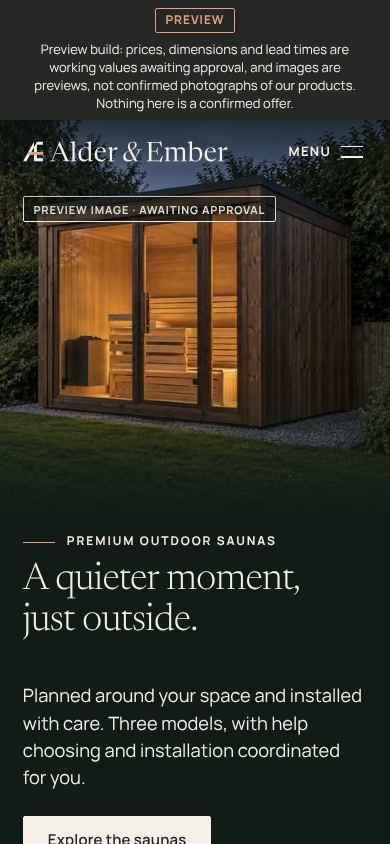
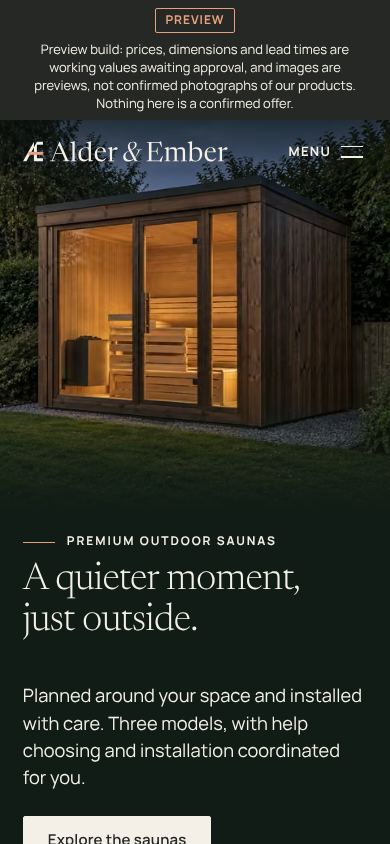
Approve the hero photograph and add the full photography brief
The owner confirmed the homepage hero is a real photograph and asked for
it to be approved. The approval record (who confirmed what, on which
date, and that the photographer, licence terms and the sauna shown are
not yet recorded) travels with the photograph through the image pipeline,
so it becomes an approved 'photo' with no label. It stays atmosphere, not
product evidence, because the model it shows is not recorded.

- manifest and pipeline carry an optional approval record; assets read it
- tests: an approved photograph carries its rights record and is not
  product evidence unless it records the model; a supplied image without
  approval is still labelled
- image credits list approved photographs and any still awaiting approval
- docs/photo-brief.md: every image the site needs (17 for launch), where
  each appears, how the site crops it, what must be in frame, shoot plan,
  delivery, rights and records; launch dependency added for the hero's
  photographer, licence and model
- screenshots refreshed for the home page

Claude-Session: https://claude.ai/code/session_0187iH3izM2tVVqanZumumJf

Changed region(s): [[0.0923, 0.2156, 0.6769, 0.2773]]

diff --git a/src/content/assets.ts b/src/content/assets.ts
@@ -253,7 +253,7 @@ const STOCK: Record<string, Stock> = {
   'installation-process': { photo: 'installation-process', focal: { x: 50, y: 55 }, alt: 'A small red timber cabin on a twin-axle trailer, parked on a lawn.' },
 };
 
-/** Images supplied for review (origin and rights unconfirmed). Never product or project evidence until approved. */
+/** Images supplied by the owner. Labelled previews until an approval record travels with the photograph; atmosphere until the model shown is recorded. */
 const SUPPLIED: Record<string, Stock> = {
   'hero-wide': {
     photo: 'hero',
@@ -289,7 +289,12 @@ function withPhoto(a: Asset): Asset {
     ...(st.mobileFocal ? { mobileFocal: st.mobileFocal } : {}),
     approval: 'working',
   };
-  if (supplied) return { ...common, kind: 'supplied-preview', rights: null };
+  if (supplied) {
+    // once the owner has approved it (the record travels with the photograph), it is their photograph; until then it is a labelled preview.
+    // Approval is not product evidence: that also needs the model it shows, so `evidence` stays 'atmosphere'.
+    if (ph.approval) return { ...common, kind: 'photo', rights: ph.approval.rights, approval: 'approved' };
+    return { ...common, kind: 'supplied-preview', rights: null };
+  }
   if (!ph.credit) throw new Error(`Stock photo "${st.photo}" has no credit; a photograph without a licence is a supplied image`);
   return { ...common, kind: 'stock-preview', credit: ph.credit, rights: `${ph.credit.license}, ${ph.credit.author} (via Wikimedia Commons)` };
 }

diff --git a/src/content/preview-photos.ts b/src/content/preview-photos.ts
@@ -17,6 +17,8 @@ export interface PreviewPhoto {
   avif?: boolean;
   /** width of the small variant used for gallery thumbnails (WebP only) */
   thumbWidth?: number;
+  /** present once the owner has approved the image for use as their own photograph; its rights wording travels with it */
+  approval?: { status: 'approved'; date: string; rights: string };
   /** null for a supplied image whose origin and rights are not yet confirmed */
   credit: { title: string; author: string; license: string; licenseUrl: string | null; sourceUrl: string; adapted: string } | null;
 }
@@ -29,6 +31,7 @@ export const previewPhotos: Record<string, PreviewPhoto> = {
     widths: [640, 960, 1280, 1884],
     avif: true,
     thumbWidth: 320,
+    approval: {"status": "approved", "date": "2026-10-20", "rights": "Supplied by Alder & Ember. Confirmed by the site owner on 20 October 2026 as a real photograph, approved for use as the homepage hero. Photographer, licence terms and which sauna it shows are not yet recorded."},
     credit: null,
   },
   'hero-mobile': {
@@ -38,6 +41,7 @@ export const previewPhotos: Record<string, PreviewPhoto> = {
     widths: [480, 640, 835],
     avif: true,
     thumbWidth: 320,
+    approval: {"status": "approved", "date": "2026-10-20", "rights": "Supplied by Alder & Ember. Confirmed by the site owner on 20 October 2026 as a real photograph, approved for use as the homepage hero. Photographer, licence terms and which sauna it shows are not yet recorded."},
     credit: null,
   },
   'rowan-exterior': {

diff --git a/tests/content.test.ts b/tests/content.test.ts
@@ -119,6 +119,21 @@ describe('asset manifest', () => {
     }
   });
 
+  it('never presents an approved photograph as product evidence unless it records which model it shows', () => {
+    for (const a of assets.filter((x) => x.kind === 'photo' && x.evidence === 'product-evidence')) {
+      expect(a.modelId).toBeDefined();
+    }
+  });
+
+  it('labels a supplied image that has not been approved, and an approved photograph carries its rights record', () => {
+    expect(previewTag({ kind: 'supplied-preview' } as never)).toMatch(/awaiting approval/);
+    const hero = getAsset('hero-wide')!;
+    expect(hero.kind).toBe('photo');
+    expect(hero.approval).toBe('approved');
+    expect(hero.rights).toMatch(/Confirmed by the site owner/);
+    expect(previewTag(hero)).toBeNull();
+  });
+
   it('labels every image that is not an approved photograph', () => {
     for (const a of assets.filter((x) => x.kind !== 'photo' && x.kind !== 'placeholder')) {
       expect(previewTag(a)).toBeTruthy();

diff --git a/scripts/images/build-preview-photos.py b/scripts/images/build-preview-photos.py
@@ -12,9 +12,9 @@ For every entry in scripts/images/preview-photos.manifest.json it
 and finally rewrites src/content/preview-photos.ts with the credit that travels with each photo.
 
 Most are openly licensed stock photographs shown as clearly labelled previews. An entry marked "supplied" is an
-image handed over for review whose origin and rights are not yet confirmed: it carries no credit and is labelled
-"awaiting approval". None is approved Alder & Ember product or project photography, and each must be replaced
-or approved before launch.
+image handed over for review: until it has an "approval" record (who confirmed what, and the rights wording) it
+carries no credit and is labelled "awaiting approval"; with one, it is treated as the owner's approved photograph.
+Everything else must be replaced or approved before launch.
 """
 import argparse, io, json, os, re, sys, time, urllib.request
 from pathlib import Path
@@ -155,7 +155,7 @@ def main():
             full = im if biggest == im.width else im.resize((biggest, round(im.height * biggest / im.width)), Image.LANCZOS)
             w_, h_ = full.size
             size = sum((OUT / f"{key}-{w}.{ext}").stat().st_size for w in emitted for ext in ("webp", "avif"))
-            print(f"{key:24} {w_}x{h_}  widths {emitted}  {size // 1024:5d} KB total  {p.get('license', 'supplied, rights unconfirmed')}", flush=True)
+            print(f"{key:24} {w_}x{h_}  widths {emitted}  {size // 1024:5d} KB total  {p.get('license', 'supplied, approved by owner' if p.get('approval') else 'supplied, rights unconfirmed')}", flush=True)
         else:
             existing = sorted(int(m.group(1)) for f in OUT.glob(f"{key}-*.webp") if (m := re.match(rf"{re.escape(key)}-(\d+)\.webp$", f.name)) and int(m.group(1)) != THUMB_W)
             emitted = existing
@@ -164,6 +164,7 @@ def main():
         entries[key] = {
             "file": f"/images/preview/{key}", "width": w_, "height": h_, "widths": emitted,
             # a supplied image has no licence to credit; it is labelled "awaiting approval" instead
+            "approval": p.get("approval"),
             "credit": None if p.get("supplied") else {
                 "title": p["title"], "author": p["author"], "license": p["license"], "licenseUrl": p["licenseUrl"],
                 "sourceUrl": p["page"], "adapted": p.get("adapted") or adapted_text(g, aspect, p.get("zoom", 1.0)),
@@ -193,6 +194,8 @@ export interface PreviewPhoto {
   avif?: boolean;
   /** width of the small variant used for gallery thumbnails (WebP only) */
   thumbWidth?: number;
+  /** present once the owner has approved the image for use as their own photograph; its rights wording travels with it */
+  approval?: { status: 'approved'; date: string; rights: string };
   /** null for a supplied image whose origin and rights are not yet confirmed */
   credit: { title: string; author: string; license: string; licenseUrl: string | null; sourceUrl: string; adapted: string } | null;
 }
@@ -201,7 +204,8 @@ export const previewPhotos: Record<string, PreviewPhoto> = {
 '''
     body = ""
     for k, v in entries.items():
-        body += f"  '{k}': {{\n    file: '{v['file']}',\n    width: {v['width']},\n    height: {v['height']},\n    widths: {json.dumps(v['widths'])},\n    avif: true,\n    thumbWidth: {THUMB_W},\n    credit: {json.dumps(v['credit'], ensure_ascii=False)},\n  }},\n"
+        appr = f"    approval: {json.dumps(v['approval'], ensure_ascii=False)},\n" if v.get("approval") else ""
+        body += f"  '{k}': {{\n    file: '{v['file']}',\n    width: {v['width']},\n    height: {v['height']},\n    widths: {json.dumps(v['widths'])},\n    avif: true,\n    thumbWidth: {THUMB_W},\n{appr}    credit: {json.dumps(v['credit'], ensure_ascii=False)},\n  }},\n"
     TS.write_text(head + body + "};\n")
 
 

diff --git a/docs/photo-brief.md b/docs/photo-brief.md
@@ -1,0 +1,173 @@
+# Photography brief: every image on the site
+
+For Alder & Ember and the photographer. It lists each photograph the website needs, where each one appears, how the site crops it, and what must be in the frame. It is written from the layouts that are built, so finished files can go straight in.
+
+**Status.** The homepage hero is approved (a real photograph, dark timber cabin with a glazed front, lit at dusk, with a hedge and silver birch behind it). It is the **look benchmark for everything below**. The other 16 slots still show clearly labelled stock photographs, which are not Alder & Ember's saunas and must be replaced before launch. For the hero's own specification, and the optional higher-resolution or vertical version, see [hero-photo-brief.md](hero-photo-brief.md).
+
+## 1. The look, in one paragraph
+
+Quiet, grounded and architectural: a considered timber cabin in a real UK garden, photographed at **dusk or in soft overcast light**, lit warmly from inside, with natural colour and nothing theatrical. Dark, fine-grained timber; a lawn, a clipped hedge, silver birch; a gravel base. Interiors are calm and honest about space and scale. Details are tactile and true to colour. No people's faces, no added steam or smoke, no heavy orange grade, no HDR look.
+
+Palette to keep in mind (the site's own): warm canvas `#f4f0e8`, deep forest `#111c16`, timber `#795b45`, and a very small ember accent `#a54f32`.
+
+## 2. Ground rules for every image
+
+1. **Accuracy comes first.** A photograph labelled as the Rowan, Alder or Ember must show that model, exactly as it is sold, in its standard configuration. Never use one model standing in for another. Note the model and configuration for every file.
+2. **One garden for the three exteriors**, ideally the hero's garden, so the range looks like one place and compares fairly.
+3. **No people's faces.** Where people appear (installation), they are shown from behind or at a distance, with signed releases.
+4. **No added steam, smoke, fire or lens effects.** No heavy colour grade: neutral white balance, true timber colour, a warm glow from the interior only.
+5. **No brands, logos, competitor products, house numbers, number plates or recognisable neighbours** in frame.
+6. **Verticals stay vertical.** Use a tilt-shift lens or shoot a little wide and correct in post. No tilted horizons, no fisheye.
+7. **Do not invent.** Construction details come from the manufacturer. Show the approved heater package only. No measurements, labels or annotations in the frame.
+8. **Shoot with margin.** The site crops the same photograph to 3:2, 4:3, 5:4, 4:5 and square in different places. Keep everything essential inside the **central 88% of the width and 85% of the height**.
+9. **Real projects only** for installation images, with the customer's written permission.
+
+## 3. Shot list at a glance
+
+17 images are needed for launch. File names are the site's asset ids, so each delivery maps straight to its slot.
+
+| # | File name | Image | Appears on | Shoot as | Minimum size |
+|---|---|---|---|---|---|
+| 1 | `rowan-exterior` | The Rowan, exterior | Model explorer, collection, Rowan page (first image) | 3:2 horizontal | 4500 × 3000 |
+| 2 | `alder-exterior` | The Alder, exterior | Same, Alder page, the Alder campaign page | 3:2 horizontal | 4500 × 3000 |
+| 3 | `ember-exterior` | The Ember, exterior | Same, Ember page | 3:2 horizontal | 4500 × 3000 |
+| 4 | `rowan-interior` | The Rowan, interior | Rowan page gallery (second image), interior section | 3:2 horizontal | 4500 × 3000 |
+| 5 | `alder-interior` | The Alder, interior | Alder page gallery and interior section | 3:2 horizontal | 4500 × 3000 |
+| 6 | `ember-interior` | The Ember, interior | Ember page gallery and interior section | 3:2 horizontal | 4500 × 3000 |
+| 7 | `rowan-detail` | The Rowan, heater and controls | Rowan page gallery (third image) | 3:2 horizontal | 3600 × 2400 |
+| 8 | `alder-detail` | The Alder, glazed front from inside | Alder page gallery (third image) | 3:2 horizontal | 3600 × 2400 |
+| 9 | `ember-detail` | The Ember, changing area | Ember page gallery (third image) | 3:2 horizontal | 3600 × 2400 |
+| 10 | `detail-timber` | Exterior cladding close-up | Home: "Considered in every detail" | **Both** 4:5 vertical and 3:2 horizontal | 3000 px long edge |
+| 11 | `detail-interior-finish` | Interior timber and bench edge | Home: same chapter | 3:2 horizontal | 3600 × 2400 |
+| 12 | `detail-construction` | Insulated wall build-up | Home: same chapter | 4:3 horizontal | 3200 × 2400 |
+| 13 | `detail-glazing-heater` | Glazing frame, handle, heater | Home: same chapter, Alder page | 4:3 horizontal | 3200 × 2400 |
+| 14 | `site-access` | A real site and access check | Home: "From your space to first use"; Installation & delivery | 3:2 horizontal | 3600 × 2400 |
+| 15 | `installation-process` | A real installation in progress | Installation & delivery | 3:2 horizontal | 3600 × 2400 |
+| 16 | `closing-warmth` | Closing image: from the warmth, into the garden | Home: closing section | 4:3 horizontal | 3200 × 2400 |
+| 17 | `social-share` | Link-preview image (text-free) | Social and messaging previews | 1.91:1 horizontal | 2400 × 1260 |
+
+**Also useful, not required for launch:** a vertical or higher-resolution hero frame (see the hero brief), and image sets for real installation stories (section 8).
+
+## 4. Image by image
+
+### 4.1 Model exteriors (`rowan-exterior`, `alder-exterior`, `ember-exterior`)
+
+These are the most-seen images on the site: the large stage of the model explorer on the home page (3:2), the collection and model cards, the first image on each model page (4:3), and the Alder campaign page.
+
+- **Same everything for all three.** One garden, one angle, one camera height, one lens, one time of day. Shoot from the **front-left at a three-quarter angle**, so the front (door or glazing) and one side are visible. **Camera height about 1.3 m**, lens **28 to 35 mm equivalent**, camera level. The cabin fills about **55% of the frame width**. Do not enlarge or shrink a model in post: bigger models should look bigger.
+- **Light.** The hero's light: **15 to 40 minutes after sunset**, deep blue sky, interior lit, the lawn falling into shade. Back-up set in soft overcast daylight.
+- **Setting.** Lawn in front, hedge and birch behind, gravel base. Nothing else in frame: no bins, hoses, furniture, vehicles, other buildings.
+- **Door closed, interior lit.** The glazed front or windows glow; the interior timber is visible.
+- **Show what is distinctive.** Rowan: the compact cabin, with room around it to read as a small-garden building. Alder: the glazed front. Ember: the larger cabin, framed so the **changing area** is visible.
+- **Composition.** Cabin centred in the 20% to 80% band of the width, 8% of air all round. Quiet sky or foliage in the top 12%.
+
+### 4.2 Model interiors (`rowan-interior`, `alder-interior`, `ember-interior`)
+
+Shown in the model page gallery and in the page's interior section.
+
+- **Position.** In the doorway corner, **camera at bench-top height (1.0 to 1.2 m)**, lens **16 to 24 mm equivalent**, level, no fisheye.
+- **Show.** Both bench levels with their depth, the heater with its guard and stones, the wall and ceiling timber, the door or glazing, the floor. The viewer should be able to judge how many people sit comfortably.
+- **Scale cues, sparingly.** One folded undyed-linen towel on the upper bench, one plain timber bucket and ladle on the lower. Nothing else.
+- **Light.** The sauna's own lights on, dimmed, plus balanced daylight or dusk light through the glass. No flash glare on glass. No steam: the heater is off or warm, never "smoking".
+- **Accuracy.** The standard bench layout and the approved heater package. If the heater package is not confirmed before the shoot, say so, because it may need re-shooting.
+
+### 4.3 Model details (`rowan-detail`, `alder-detail`, `ember-detail`)
+
+The third image in each model gallery. Each one is specific to its model.
+
+- **The Rowan:** the electric heater and its control panel with the bench edge beside it, from a three-quarter angle. Approved heater package only.
+- **The Alder:** the **glazed front seen from inside**, looking out into the garden at dusk, so the glass frames the lit lawn and the hedge. It shows the model's main feature and the idea of the site: from the garden into the warmth.
+- **The Ember:** the **changing area**: bench, hooks, floor, and the door through to the sauna. Calm, tidy and honestly scaled.
+- Shoot **3:2 horizontal**, subject centred with 15% margin, shallow depth of field is fine (f/4 to f/5.6).
+
+### 4.4 The craft chapter: "Considered in every detail" (`detail-timber`, `detail-interior-finish`, `detail-construction`, `detail-glazing-heater`)
+
+A dark chapter on the home page with three tabs (exterior, interior, construction); each picture is cropped to **5:4 on desktop** and shown larger on mobile. Shoot every close-up with margin.
+
+- **`detail-timber`, exterior cladding.** The thermally modified timber: board joints, a corner, the grain, the fixings. **Raking low light** to show texture, true colour, fresh and unweathered, no stickers or markings. Shoot **a vertical 4:5 and a horizontal 3:2 from the same position**, with the key feature centred.
+- **`detail-interior-finish`, interior and bench.** A bench edge, the smooth timber surface, the board spacing, a backrest. Warm, low, even light. No steam, no sweat.
+- **`detail-construction`, insulated build-up.** **From the manufacturer only.** A real cut-away sample of the wall, or the wall photographed during the build before the cladding closes. Square-on, even neutral light, plain background. **No ruler, no dimensions and no annotation in frame**: the site must not state a thickness the manufacturer has not given. Ask the manufacturer for the layer list so the caption can be written accurately.
+- **`detail-glazing-heater`, glazing and heater.** Two frames, one slot: (a) the glazing frame and door handle from outside at dusk; (b) the heater and controls from inside. **Only the approved heater package.** The site uses one and keeps the other for the gallery.
+
+### 4.5 Process (`site-access`, `installation-process`)
+
+Both must be **real**. The site says "Genuine installation photography only" and a stock substitute must not stand in for evidence.
+
+- **`site-access`, a real access check** on a real visit: a gate, a path, steps, a narrow gap, with a tape measure or the team's hands in frame to show why access is checked. **Overcast daylight.** No faces, no house numbers, no vehicle plates. It appears twice: on the home page beside "From your space to first use" and on Installation & delivery.
+- **`installation-process`, a real installation:** the team positioning a cabin on its prepared base. Shoot from the side, from behind, or at a distance, or with signed releases. Visible PPE. Plain, unbranded clothing and vehicles. Include the **level, compacted base**. If a qualified electrician is photographed making the connection, only with their consent.
+- Capture **extras while there** (section 8): arrival and delivery, the base before the cabin, the cabin on the base, the finished garden.
+
+### 4.6 The closing image (`closing-warmth`)
+
+The last image on the home page, shown at about 44% of the width at 4:3: the invitation to start.
+
+- Our recommendation: **the Alder's glazed front seen from the sauna bench at dusk, looking out to the lit garden**, the mirror image of the hero. Dim warm interior in the foreground, the blue garden in the glass.
+- Alternative: a quiet bench interior in warm low light. No people, no towels piled up, no steam.
+
+### 4.7 The social-share image (`social-share`)
+
+The picture shown when the site is shared on messages and social platforms. The site shows no link preview until an approved image of Alder & Ember's own work exists, so this is the cheapest way to switch it on.
+
+- **1.91:1 (1200 × 630), delivered at 2400 × 1260.** Text-free.
+- The Alder at dusk in the hero's garden, with the cabin **centred** and everything important in the **middle 80%**, because platforms crop the edges differently.
+- Must be the owner's own photograph, not stock.
+
+## 5. Shoot plan
+
+| Session | When | What | Notes |
+|---|---|---|---|
+| **1. Dusk exteriors** | 2 or 3 evenings, one model per evening (the blue window is only 25 to 40 minutes) | 4.1 exteriors, 4.6 closing image, 4.7 social image, the hero companion | Back-up: the next morning in soft light. Lights on 30 minutes before. Lawn mown, hedge trimmed, base raked, glass cleaned, nothing left in the garden |
+| **2. Daytime interiors and details** | Overcast day | 4.2 interiors, 4.3 model details, 4.4 `detail-interior-finish` and `detail-glazing-heater` | Control the light with the sauna's own LEDs and soft fill. Wipe all glass and timber before each frame |
+| **3. Manufacturer** | At the factory or from a sample | 4.4 `detail-construction`, extra `detail-timber` frames | Get the manufacturer's written permission to publish |
+| **4. A real job** | A real access check and installation day | 4.5 `site-access`, `installation-process`, section 8 extras | Customer permission in writing first |
+
+**Kit:** full-frame camera, 16 to 35 mm zoom, 24 mm tilt-shift (ideal), 85 to 105 mm for details, a sturdy tripod, remote release, a small soft LED panel, a polariser, microfibre cloths and glass cleaner, undyed linen towels and a plain timber bucket and ladle.
+
+## 6. Technical delivery
+
+- **Format.** RAW files plus **graded full-quality JPEGs or 16-bit TIFFs in sRGB**. Minimum sizes are in the table in section 3; larger is better.
+- **Choices.** At least **three candidates per slot**, not just one.
+- **File names.** The asset id from section 3 plus `_01`, `_02`, for example `alder-exterior_02.jpg`.
+- **Metadata.** Keep the camera data. Put the **model and configuration** in the caption of every file. No watermarks.
+- **Colour.** Neutral white balance, true timber colour, no HDR look, no heavy vignette.
+
+## 7. Rights and records
+
+- **A written licence** covering website and marketing use, with no credit requirement (or the exact credit line), for each photographer.
+- **A property release** from the owner of every garden or site shown, and a **location release** where the place is identifiable.
+- **People releases** for anyone identifiable, including the installation team.
+- **The manufacturer's permission** for construction pictures.
+- **One record per image** (the site tracks this for every photograph):
+
+| File | Model and configuration | Date and location | Photographer and licence | Product evidence or atmosphere | Real customer installation? | Releases held |
+|---|---|---|---|---|---|---|
+| `alder-exterior_02.jpg` | The Alder, electric | | | Product evidence | No (showroom garden) | Property |
+
+A showroom or yard garden counts as **product evidence** for the model shown, but it is **not** a customer installation and will not be labelled as one.
+
+## 8. Installation stories (once real projects exist)
+
+The "Our installations" section stays hidden until real, approved projects exist. For each one, shoot **6 to 10 images**, with the customer's written permission and approved wording:
+
+1. The space before, in daylight.
+2. The access route.
+3. The prepared base.
+4. Delivery and placement.
+5. The finished exterior, in daylight and at dusk.
+6. The interior.
+7. One detail that shows care.
+8. The finished garden from the house.
+
+Never stage one to look like a customer's project.
+
+## 9. Not on the site yet (optional)
+
+A team portrait for About, the manufacturer's workshop, a commercial or hospitality setting, and Care & support. None is used today. Add them only with real subjects, releases and approved wording.
+
+## 10. After delivery: what we do
+
+1. Each chosen frame goes into `scripts/images/preview-photos.manifest.json` with its crop and focal point, and `npm run images` builds the AVIF and WebP sizes.
+2. `npm run hero` and the layout sweep re-check anything with text over a photograph.
+3. A "Stock preview" label disappears only when that image is marked approved with its rights and alt text. `npm run check:production` then stops listing it as a launch blocker.
+4. The social-share image switches on the link preview.
+5. We need back, for every file: **which model it shows**, so it can be used as product evidence.

diff --git a/docs/audit-response.md b/docs/audit-response.md
@@ -39,7 +39,7 @@ New checks were added as the work went on, and each found something real that is
 
 The audit's organising idea, "From the garden, into the warmth", became five chapters on the home page: arrive, choose, inspect, understand, begin.
 
-- **Arrive.** A sauna in a garden is now the dominant subject: the supplied hero image, a dark timber cabin with a glazed front, lit from inside at dusk, set in a lawn with a clipped hedge and silver birch behind it. The headline is short, with "Premium outdoor saunas" carried as a kicker so the offer is unmistakable, and is sized to end before the doorway in the photograph. A separate square crop serves phones, and phones and portrait or square windows stack the copy on a solid panel beneath the photograph so the headline never lies across the cabin.
+- **Arrive.** A sauna in a garden is now the dominant subject: the approved hero photograph, a dark timber cabin with a glazed front, lit from inside at dusk, set in a lawn with a clipped hedge and silver birch behind it. The headline is short, with "Premium outdoor saunas" carried as a kicker so the offer is unmistakable, and is sized to end before the doorway in the photograph. A separate square crop serves phones, and phones and portrait or square windows stack the copy on a solid panel beneath the photograph so the headline never lies across the cabin.
 - **Choose.** The model explorer has a stage whose 3:2 ratio never depends on the text beside it, a rail of all three models, and a short panel: one fit sentence, capacity, external size, price with its qualification beside it and the full scope one click away, and one primary action. Image, facts, links and selected state cannot disagree, and only the visible model's image loads up front.
 - **Inspect.** Three details (exterior, interior, construction) with a sticky stage that follows native scroll, and buttons that do the same job. Narrow screens and no-script get a linear image/text sequence.
 - **Understand.** The four stages, with the stage in view marked, and a plain split between what we coordinate and what is assessed separately.
@@ -51,8 +51,8 @@ The logo's mark was floating about 10% short of the lettering. It is now aligned
 
 ## What is deliberately not claimed
 
-- **Photography is still unapproved.** The audit is right that coherent product photography is the largest creative dependency, and no code can supply it. The set is now closer (one family of small timber cabins in natural light, and the large cottage removed). Fourteen stock photographs fill the other slots; every one still says "Stock preview · not The ...". The homepage hero is an image supplied for review on 20 October: its origin and rights have **not** been confirmed (it may be a photograph, a render or a reference), so it carries its own status, **"Preview image · awaiting approval"**, is atmosphere only, and is never presented as an Alder & Ember product photograph. `check:production` reports all of them as launch blockers. Credits are in [image-credits.md](image-credits.md).
-- **The supplied hero is 1884 × 835 px.** That is enough for a 1440 px screen at normal density, but it is upscaled on wider or high-density screens, so the approved photograph should be delivered at 6000 px on the long edge (see [hero-photo-brief.md](hero-photo-brief.md)).
+- **Photography is mostly still unapproved.** The audit is right that coherent product photography is the largest creative dependency, and no code can supply it. The set is now closer (one family of small timber cabins in natural light, and the large cottage removed). Fourteen stock photographs fill the other slots; every one still says "Stock preview · not The ..." and `check:production` reports them as launch blockers. The homepage hero is a real photograph supplied by the owner and **approved on 20 October 2026**: it carries no label and its rights wording is recorded with it. It is approved as atmosphere, not as product evidence, because the sauna it shows has not been recorded. The photographer, licence terms and which sauna it shows are still to be filled in. Credits are in [image-credits.md](image-credits.md).
+- **The approved hero is 1884 × 835 px.** That is enough for a 1440 px screen at normal density, but it is upscaled on wider or high-density screens, so the approved photograph should be delivered at 6000 px on the long edge (see [hero-photo-brief.md](hero-photo-brief.md)).
 - **No social image.** `og:image` and `twitter:image` are emitted only from an approved image (`site.socialImage`), so a stock house can never stand in for an installation in a link preview. Until one is approved none is emitted.
 - **No invented content.** No real product photographs, projects, reviews, drawings, construction details, medical benefits, awards or backend were added.
 

diff --git a/docs/test-report.md b/docs/test-report.md
@@ -67,7 +67,7 @@ The **live GitHub Pages site (https://umejrr.github.io/alder-ember/) is still th
 - **A real HubSpot portal.** None was supplied; the adapter follows the documented endpoint and has only been tested against a mock. Property names are placeholders.
 - **Screen readers and keyboard use on real devices.** Only automated axe checks and scripted keyboard journeys have been run, in Chromium. NVDA, JAWS, VoiceOver and TalkBack have not been used. WCAG 2.2 AA is a target, not a claim.
 - **Other browsers and real devices.** Firefox, Safari (WebKit), and iOS and Android devices have not been tested: only Chromium is installed here, and the instructions for this environment say not to install others. The `:has()` selected-state styling, `<dialog>`, native `<details>`, `overflow-wrap: anywhere`, AVIF and `<picture>` are all widely supported but unchecked outside Chromium.
-- **Alder & Ember photography.** The site uses 14 openly licensed stock photographs (in 16 slots) and one supplied hero image whose origin and rights are unconfirmed, all as clearly labelled previews (see [image-credits.md](image-credits.md)). Crop, focal points, heading-over-image contrast and AVIF/WebP delivery were checked against these, but not against the real product, installation or site photography, which does not exist yet. Stock and supplied images are atmosphere only: none is shown as the Rowan, Alder or Ember, and every one is tagged on the page ("Stock preview" or "Preview image · awaiting approval").
+- **Alder & Ember photography.** The site uses 14 openly licensed stock photographs (in 16 slots) as clearly labelled previews, and one real photograph supplied by the owner and approved as the homepage hero (see [image-credits.md](image-credits.md)); its photographer, licence terms and the sauna it shows are not yet recorded. Crop, focal points, heading-over-image contrast and AVIF/WebP delivery were checked against these, but not against the real product, installation or site photography, which does not exist yet. Stock images and the approved hero are atmosphere only: none is shown as the Rowan, Alder or Ember, and every stock image is tagged on the page ("Stock preview"); the approved hero is not tagged.
 - **A deployed environment.** No HTTPS host, CDN, caching, shared rate-limit store or multi-instance behaviour.
 - **Email.** No confirmation or alert emails exist.
 - **Print** reproduction of the logo, and **trademark clearance** of the identity.

diff --git a/docs/launch-dependencies.md b/docs/launch-dependencies.md
@@ -7,7 +7,8 @@ Nothing below is blocked by code: each is information, a decision, or an account
 | 1 | Manufacturer drawings and approved dimensions, weights, base, access and clearances | Operations | The "Installation requirements" rows, downloadable guides, and removing "confirmed against the approved drawings" |
 | 2 | Package inclusions per model, changing-area treatment on the Ember, heater compatibility, option prices and compatibility | Operations / Daniel | The standard package list, selectable options, and the Ember's changing-area wording |
 | 3 | Approved base prices, delivery and installation charging scope, payment terms, lead-time copy | Daniel / Operations | Showing prices in production (they are `working` today) and the lead-time line |
-| 4 | Product photography and rights | Alder & Ember | Replacing every placeholder and stock preview photo ([asset-manifest.md](asset-manifest.md), [image-credits.md](image-credits.md)); the stock photos carry CC BY / CC BY-SA attribution duties and are not licensed as Alder & Ember imagery; the production check reports this as a launch blocker |
+| 4 | Product photography and rights | Alder & Ember | Replacing every remaining placeholder and stock preview photo (the full shot list is in [photo-brief.md](photo-brief.md)) ([asset-manifest.md](asset-manifest.md), [image-credits.md](image-credits.md)); the stock photos carry CC BY / CC BY-SA attribution duties and are not licensed as Alder & Ember imagery; the production check reports this as a launch blocker |
+| 4b | For the approved hero photograph: photographer, licence terms and the sauna it shows (the record says only that the owner confirmed it as a real photograph) | Alder & Ember | Treating it as product evidence, and a higher-resolution file (6000 px on the long edge; the supplied one is 1884 px) for very large screens |
 | 5 | Genuine installation stories and approved customer reviews, with permissions | Alder & Ember | The installations route, navigation item and home-page proof section |
 | 6 | Approved identity, contact details and domain | Daniel | Contact channels, `PUBLIC_SITE_URL`, canonical URLs, sitemap, Organisation details |
 | 6b | An approved 1200 × 630 social sharing image of Alder & Ember's own product or work (`site.socialImage`) | Alder & Ember | `og:image` and `twitter:image`. Until it exists none is emitted: a stock photograph must not stand in for an installation in a link preview |

diff --git a/docs/image-credits.md b/docs/image-credits.md
@@ -25,12 +25,14 @@ Licences: **CC0** needs no credit; **CC BY** requires credit; **CC BY-SA** requi
 | Installation in progress | [Tuttisauna](https://commons.wikimedia.org/wiki/File:Tuttisauna.jpg) | Ville-Matias Parkkonen | [CC0](https://creativecommons.org/publicdomain/zero/1.0/) | Resized, converted to AVIF and WebP |
 | Closing: a warm interior or an evening garden | [Sauna of the spa at Amantaka luxury Resort & Hotel in Luang Prabang Laos](https://commons.wikimedia.org/wiki/File:Sauna_of_the_spa_at_Amantaka_luxury_Resort_%26_Hotel_in_Luang_Prabang_Laos.jpg) | Basile Morin | [CC BY-SA 4.0](https://creativecommons.org/licenses/by-sa/4.0/) | Resized, converted to AVIF and WebP |
 
-## Supplied image awaiting approval
+## Approved photographs
 
-- Hero: wide garden context (`hero-wide`)
-- Hero: mobile crop (`hero-mobile`)
+- Hero: wide garden context (`hero-wide`): Supplied by Alder & Ember. Confirmed by the site owner on 20 October 2026 as a real photograph, approved for use as the homepage hero. Photographer, licence terms and which sauna it shows are not yet recorded.
+- Hero: mobile crop (`hero-mobile`): Supplied by Alder & Ember. Confirmed by the site owner on 20 October 2026 as a real photograph, approved for use as the homepage hero. Photographer, licence terms and which sauna it shows are not yet recorded.
 
-One image was supplied for review (`scripts/images/sources/hero-supplied.webp`, 1884 × 835). Its source, licence and what it shows (a photograph of a real sauna, a render, or a reference) have **not** been confirmed, so it carries no credit, is labelled "Preview image · awaiting approval", is atmosphere only, and stays a launch blocker. To approve it: record who made it, the rights, and whether it shows an Alder & Ember product; then set its asset record to `photo` with `approved`.
+## Supplied images awaiting approval
+
+None.
 
 ## Selection notes
 

diff --git a/docs/asset-manifest.md b/docs/asset-manifest.md
@@ -6,8 +6,8 @@ Generated from `src/content/assets.ts` by `npm run manifest`. Do not edit by han
 
 | ID | Role | Model | Ratio | Evidence type | Kind | Rights / credit | Approval | Focal point | Intended use |
 |---|---|---|---|---|---|---|---|---|---|
-| `hero-wide` | hero-wide | any | 21:9 | atmosphere | supplied-preview | MISSING | working | 92% 50% | Homepage hero (desktop) |
-| `hero-mobile` | hero-mobile | any | 1:1 | atmosphere | supplied-preview | MISSING | working | 50% 30% | Homepage hero (mobile) |
+| `hero-wide` | hero-wide | any | 21:9 | atmosphere | photo | Supplied by Alder & Ember. Confirmed by the site owner on 20 October 2026 as a real photograph, approved for use as the homepage hero. Photographer, licence terms and which sauna it shows are not yet recorded. | approved | 92% 50% | Homepage hero (desktop) |
+| `hero-mobile` | hero-mobile | any | 1:1 | atmosphere | photo | Supplied by Alder & Ember. Confirmed by the site owner on 20 October 2026 as a real photograph, approved for use as the homepage hero. Photographer, licence terms and which sauna it shows are not yet recorded. | approved | 50% 30% | Homepage hero (mobile) |
 | `rowan-exterior` | model-exterior | rowan | 4:3 | atmosphere | stock-preview | CC BY-SA 4.0, Tiia Monto (via Wikimedia Commons) | working | 50% 52% | Model showcase, collection card, product gallery (1st image) |
 | `rowan-interior` | model-interior | rowan | 4:3 | atmosphere | stock-preview | CC0, W.carter (via Wikimedia Commons) | working | 50% 55% | Product gallery (2nd image) |
 | `rowan-detail` | model-detail | rowan | 3:2 | atmosphere | stock-preview | CC BY-SA 4.0, Cheburgenator (via Wikimedia Commons) | working | 50% 50% | Product gallery (3rd image) |

diff --git a/docs/hero-photo-brief.md b/docs/hero-photo-brief.md
@@ -2,7 +2,7 @@
 
 For Alder & Ember and the photographer. It describes the one image the homepage opens with, what the website needs from it, and how to deliver it. Everything below is written to match how the site actually lays the image out, so the finished photograph can go straight in.
 
-The image on the site today is a **supplied preview**, labelled "awaiting approval": a dark timber cabin with a glazed front, lit at dusk, with a hedge and silver birch behind. It is close to what this brief describes and it already passes the legibility check, but its origin and rights are unconfirmed, it is 1884 × 835 px (too small for large screens), and nothing confirms it shows an Alder & Ember sauna. It stands in until the shoot.
+The photograph on the site today is a **real photograph supplied by the owner and approved as the hero on 20 October 2026**: a dark timber cabin with a glazed front, lit at dusk, with a hedge and silver birch behind. It is the look benchmark for every other image on the site (see [photo-brief.md](photo-brief.md)). It is 1884 × 835 px, which is too small for very large screens, and its photographer, licence terms and which sauna it shows are still to be recorded. This brief remains the specification for a higher-resolution replacement or a vertical companion frame.
 
 ## 1. The picture in one paragraph
 
